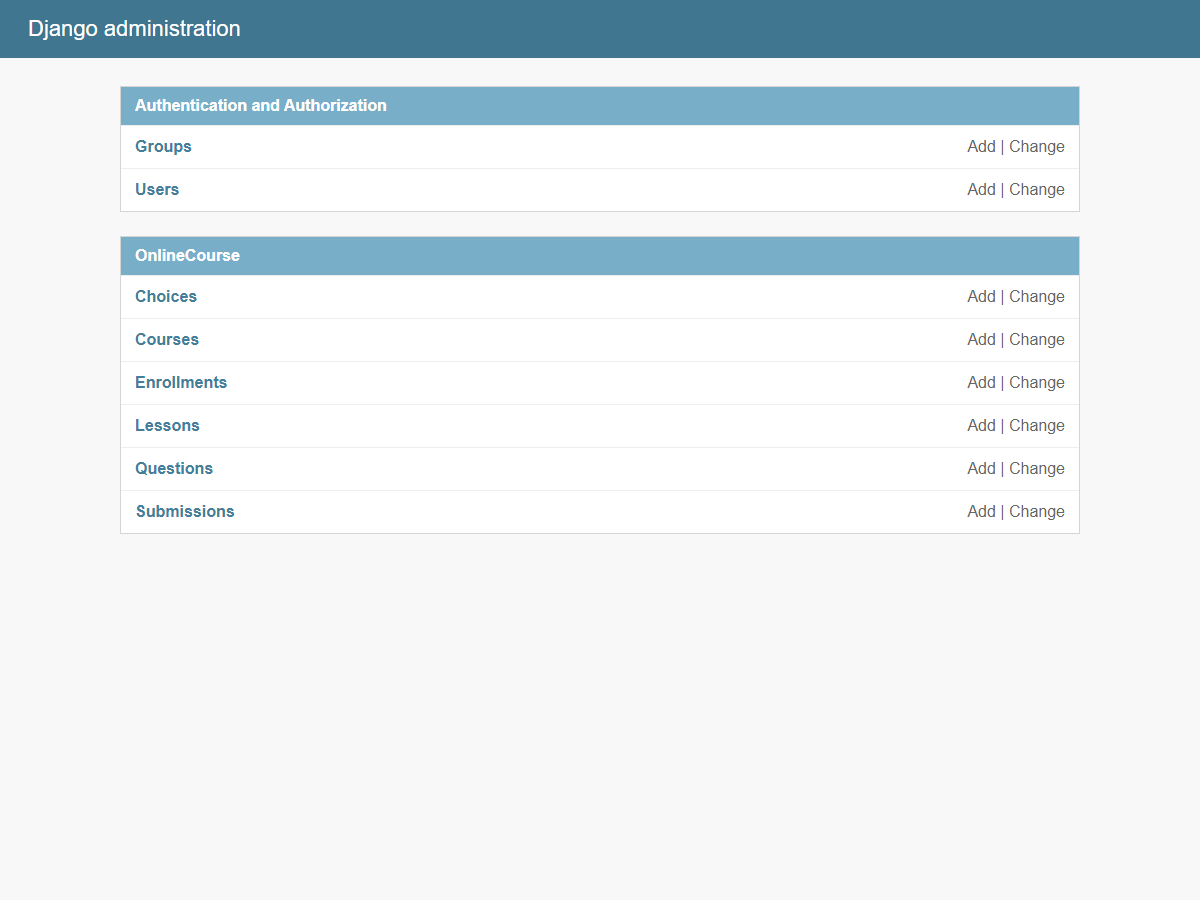
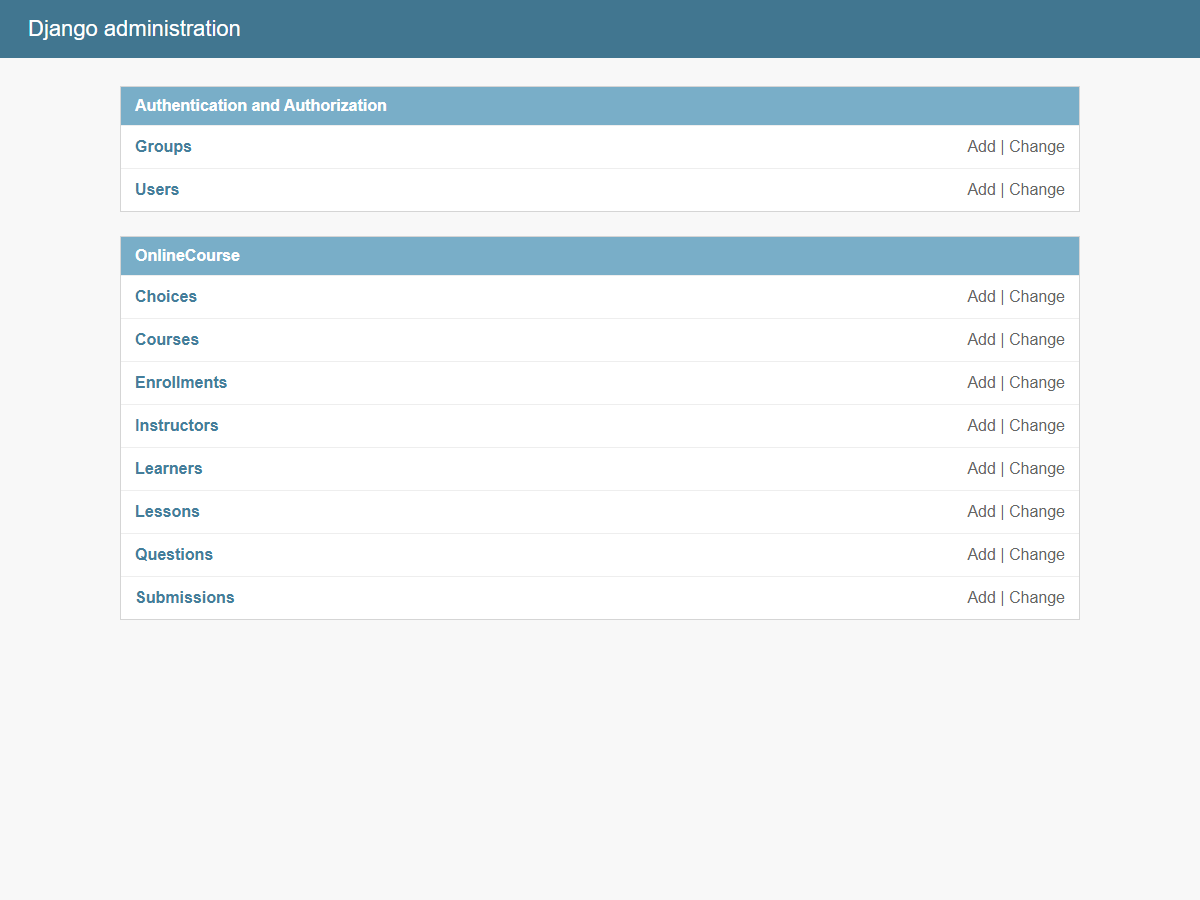
Update Django exam mock grading files

diff --git a/Mock8/03-admin-site.html b/Mock8/03-admin-site.html
@@ -31,6 +31,8 @@
           <tr><td><a href="#">Choices</a></td><td class="actions">Add | Change</td></tr>
           <tr><td><a href="#">Courses</a></td><td class="actions">Add | Change</td></tr>
           <tr><td><a href="#">Enrollments</a></td><td class="actions">Add | Change</td></tr>
+          <tr><td><a href="#">Instructors</a></td><td class="actions">Add | Change</td></tr>
+          <tr><td><a href="#">Learners</a></td><td class="actions">Add | Change</td></tr>
           <tr><td><a href="#">Lessons</a></td><td class="actions">Add | Change</td></tr>
           <tr><td><a href="#">Questions</a></td><td class="actions">Add | Change</td></tr>
           <tr><td><a href="#">Submissions</a></td><td class="actions">Add | Change</td></tr>

diff --git a/Mock8/onlinecourse/views.py b/Mock8/onlinecourse/views.py
@@ -3,7 +3,7 @@
 from django.contrib.auth.decorators import login_required
 from django.shortcuts import get_object_or_404, redirect, render
 
-from .models import Choice, Course, Submission
+from .models import Choice, Course, Enrollment, Question, Submission
 
 
 @login_required
@@ -19,10 +19,13 @@ def submit(request, course_id):
         if key.startswith("choice_"):
             selected_choice_ids.extend(values)
 
-    selected_choices = Choice.objects.filter(id__in=selected_choice_ids)
-    submission = Submission.objects.create(
+    enrollment, _created = Enrollment.objects.get_or_create(
         user=request.user,
         course=course,
+    )
+    selected_choices = Choice.objects.filter(id__in=selected_choice_ids)
+    submission = Submission.objects.create(
+        enrollment=enrollment,
     )
     submission.choices.set(selected_choices)
     submission.save()
@@ -38,29 +41,41 @@ def submit(request, course_id):
 def show_exam_result(request, course_id, submission_id):
     """Display exam score, result message, and selected answers."""
     course = get_object_or_404(Course, pk=course_id)
+    enrollment = get_object_or_404(
+        Enrollment,
+        user=request.user,
+        course=course,
+    )
     submission = get_object_or_404(
         Submission,
         pk=submission_id,
-        course=course,
-        user=request.user,
+        enrollment=enrollment,
     )
 
-    selected_choices = submission.choices.all()
-    total_grade = 0
-    correct_choices = []
+    selected_ids = list(submission.choices.values_list("id", flat=True))
+    questions = Question.objects.filter(course=course)
+    selected_question_map = {
+        choice.id: choice.question_id
+        for choice in submission.choices.select_related("question")
+    }
+    total_score = 0
+    possible_score = 0
 
-    for choice in selected_choices:
-        if choice.is_correct:
-            total_grade += choice.question.grade
-            correct_choices.append(choice)
+    for question in questions:
+        selected_for_question = [
+            choice_id
+            for choice_id in selected_ids
+            if selected_question_map.get(choice_id) == question.id
+        ]
+        total_score += question.is_get_score(selected_for_question)
+        possible_score += question.grade
 
-    passed = total_grade >= 1
+    passed = total_score >= max(1, possible_score // 2)
     context = {
         "course": course,
-        "submission": submission,
-        "selected_choices": selected_choices,
-        "correct_choices": correct_choices,
-        "grade": total_grade,
+        "selected_ids": selected_ids,
+        "grade": total_score,
+        "possible": possible_score,
         "passed": passed,
     }
 

diff --git a/Mock8/onlinecourse/models.py b/Mock8/onlinecourse/models.py
@@ -26,6 +26,28 @@ class Lesson(models.Model):
         return self.title
 
 
+class Instructor(models.Model):
+    """Instructor profile for the OnlineCourse application."""
+
+    user = models.ForeignKey(settings.AUTH_USER_MODEL, on_delete=models.CASCADE)
+    full_time = models.BooleanField(default=True)
+    total_learners = models.IntegerField(default=0)
+
+    def __str__(self):
+        return str(self.user)
+
+
+class Learner(models.Model):
+    """Learner profile for the OnlineCourse application."""
+
+    user = models.ForeignKey(settings.AUTH_USER_MODEL, on_delete=models.CASCADE)
+    occupation = models.CharField(max_length=200)
+    social_link = models.URLField(max_length=200)
+
+    def __str__(self):
+        return str(self.user)
+
+
 class Question(models.Model):
     """Exam question model."""
 
@@ -41,6 +63,15 @@ class Question(models.Model):
 
     def __str__(self):
         return self.question_text
+
+    def is_get_score(self, selected_ids):
+        """Return this question's grade when all selected answers are correct."""
+        all_answers = self.choice_set.all()
+        correct_ids = set(
+            all_answers.filter(is_correct=True).values_list("id", flat=True)
+        )
+        selected_ids = set(int(choice_id) for choice_id in selected_ids)
+        return self.grade if correct_ids == selected_ids else 0
 
 
 class Choice(models.Model):
@@ -63,18 +94,11 @@ class Submission(models.Model):
         null=True,
         blank=True,
     )
-    user = models.ForeignKey(
-        settings.AUTH_USER_MODEL,
-        on_delete=models.CASCADE,
-        null=True,
-        blank=True,
-    )
-    course = models.ForeignKey(Course, on_delete=models.CASCADE)
     choices = models.ManyToManyField(Choice)
     submitted_at = models.DateTimeField(auto_now_add=True)
 
     def __str__(self):
-        return f"Submission for {self.course}"
+        return f"Submission for {self.enrollment}"
 
 
 class Enrollment(models.Model):

diff --git a/Mock8/onlinecourse/admin.py b/Mock8/onlinecourse/admin.py
@@ -1,9 +1,16 @@
 """Admin configuration for the OnlineCourse application."""
 
 from django.contrib import admin
-from django.contrib.auth.models import User
-
-from .models import Choice, Course, Enrollment, Lesson, Question, Submission
+from .models import (
+    Choice,
+    Course,
+    Enrollment,
+    Instructor,
+    Learner,
+    Lesson,
+    Question,
+    Submission,
+)
 
 
 class QuestionInline(admin.StackedInline):
@@ -48,3 +55,5 @@ admin.site.register(Question, QuestionAdmin)
 admin.site.register(Choice)
 admin.site.register(Submission)
 admin.site.register(Enrollment)
+admin.site.register(Instructor)
+admin.site.register(Learner)
